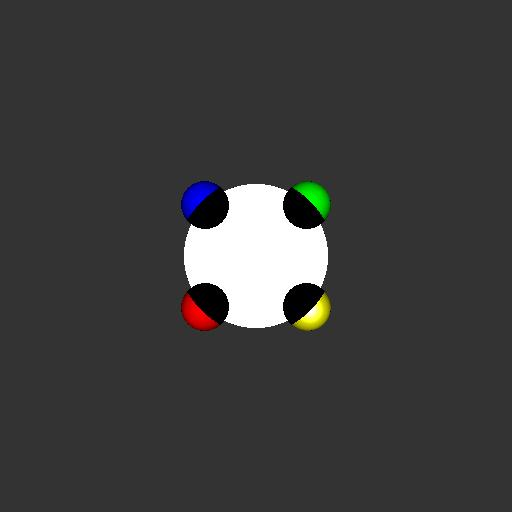
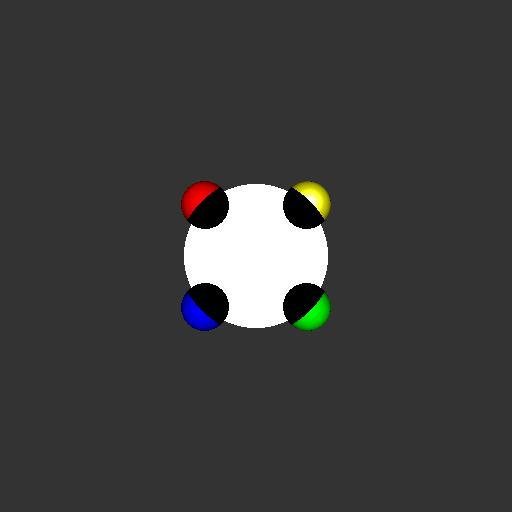
Triangles mostly tracing properly. Issues with z buffering.

diff --git a/src/main/java/edu/byu/cs455/scene/material/Diffuse.java b/src/main/java/edu/byu/cs455/scene/material/Diffuse.java
@@ -39,62 +39,22 @@ public class Diffuse extends Material
         Vector diffuseReflectanceColor = getColorVector(getMaterialColor()); //cr
         Vector ambientColor = getColorVector(scene.getAmbientLightColor()); //ca
         Vector specularHighlightColor = getColorVector(getSpecularHighlight()); //cp
-        Vector directionToLight = scene.getDirectionToLight()
-                .normalize(); //l
-        Vector reflectionVector = getReflectionVector(normal, directionToLight)
-                .normalize(); //r
+        Vector directionToLight = scene.getDirectionToLight().normalize(); //l
+        double angleBetweenLightAndNormal = Math.abs(directionToLight.dotProduct(normal));
+        Vector reflectionVector = normal.multiply(2).multiply(angleBetweenLightAndNormal).subtract(directionToLight).normalize(); //r
 
         double visibilityTerm = isInShadow ? 0 : 1;
-        Vector ambientTerm = getAmbientTerm(diffuseReflectanceColor,
-                ambientColor);
-        Vector diffuseTerm = getDiffuseTerm(diffuseReflectanceColor,
-                lightSourceColor,
-                getLambertianComponent(normal,
-                        directionToLight
-                )
-        )
-                .multiply(visibilityTerm);
-        Vector phongTerm = getPhongTerm(lightSourceColor,
-                specularHighlightColor,
-                getPhongComponent(scene.getLookFrom(),
-                        reflectionVector,
-                        getPhongConstant()
-                )
-        )
-                .multiply(visibilityTerm);
-        return addColorTermsTogether(ambientTerm, diffuseTerm, phongTerm);
-    }
+        Vector ambientTerm = diffuseReflectanceColor.multiply(ambientColor);
 
-    private Color addColorTermsTogether(Vector ambientTerm, Vector diffuseTerm, Vector phongTerm)
-    {
+        double lambertianComponent = Math.max(0, angleBetweenLightAndNormal);
+        Vector diffuseTerm = diffuseReflectanceColor.multiply(lightSourceColor).multiply(lambertianComponent).multiply(visibilityTerm);
+
+        double angleBetweenEyeAndReflection = scene.getLookFrom().dotProduct(reflectionVector);
+        angleBetweenEyeAndReflection = Math.max(0, angleBetweenEyeAndReflection);
+        double phongComponent = Math.pow(angleBetweenEyeAndReflection, getPhongConstant());
+        Vector phongTerm = lightSourceColor.multiply(specularHighlightColor).multiply(phongComponent).multiply(visibilityTerm);
+
         return getVectorColor(ambientTerm.add(diffuseTerm).add(phongTerm));
     }
 
-    private Vector getDiffuseTerm(Vector diffuseReflectanceColor, Vector lightColor, double lambertianComponent)
-    {
-        return multiplyColorsWithComponentTerm(diffuseReflectanceColor, lightColor, lambertianComponent);
-    }
-
-    private Vector getPhongTerm(Vector lightColor, Vector specularColor, double phongComponent)
-    {
-        return multiplyColorsWithComponentTerm(lightColor, specularColor, phongComponent);
-    }
-
-    private Vector multiplyColorsWithComponentTerm(Vector first, Vector second, double component)
-    {
-        return first.multiply(second).multiply(component);
-    }
-
-    private double getPhongComponent(Vector eye, Vector reflection, double phongConstant)
-    {
-        double angleBetweenEyeAndReflection = eye.dotProduct(reflection);
-        angleBetweenEyeAndReflection = Math.max(0, angleBetweenEyeAndReflection);
-        return Math.pow(angleBetweenEyeAndReflection, phongConstant);
-    }
-
-    private double getLambertianComponent(Vector normal, Vector lightDirection)
-    {
-        double angleBetweenLightAndNormal = lightDirection.dotProduct(normal);
-        return Math.max(0, angleBetweenLightAndNormal);
-    }
 }

diff --git a/src/main/java/edu/byu/cs455/Main.java b/src/main/java/edu/byu/cs455/Main.java
@@ -32,8 +32,8 @@ public class Main
         spheres.add(new Sphere(new Vector(0.35, 0.0, -0.1), 0.05, new Diffuse(new Color(1.0f, 1.0f, 1.0f), new Color(1.0f, 1.0f, 1.0f), 4)));
         spheres.add(new Sphere(new Vector(0.2, 0.0, -0.1), 0.075, new Diffuse(new Color(1.0f, 0.0f, 0.0f), new Color(1.0f, 0.5f, 0.5f), 32)));
         spheres.add(new Sphere(new Vector(-0.6, 0.0, 0.0), 0.3, new Diffuse(new Color(0.0f, 1.0f, 0.0f), new Color(0.5f, 1.0f, 0.5f), 32)));
-        triangles.add(new Triangle(new Vector(0.3, -0.3, -0.4), new Vector(0.0, 0.3, -0.1), new Vector(-0.3, -0.3, 0.2), new Diffuse(new Color(1.0f, 1.0f, 1.0f), new Color(0.0f, 0.0f, 1.0f), 32)));
-        triangles.add(new Triangle(new Vector(-0.2, 0.1, 0.1), new Vector(-0.2, -0.5, 0.2), new Vector(-0.2, 0.1, -0.3), new Diffuse(new Color(1.0f, 1.0f, 0.0f), new Color(1.0f, 1.0f, 0.0f), 4)));
+        triangles.add(new Triangle(new Vector(0.3, -0.3, -0.4), new Vector(0.0, 0.3, -0.1), new Vector(-0.3, -0.3, 0.2), new Diffuse(new Color(0.0f, 0.0f, 1.0f), new Color(1.0f, 1.0f, 1.0f), 32)));
+        triangles.add(new Triangle(new Vector(-0.2, 0.1, 0.1), new Vector(-0.2, -0.5, 0.2), new Vector(-0.2, 0.1, -0.3), new Diffuse(new Color(1.0f, 1.0f, 0.0f), new Color(1.0f, 1.0f, 1.0f), 4)));
         cameraSettings = new CameraSettings(new Vector(0.0, 0.0, 0.0), new Vector(0.0, 0.0, 1.0), new Vector(0.0, 1.0, 0.0), 28);
         light = new Light(new Vector(1.0, 0.0, 0.0), new Color(1.0f, 1.0f, 1.0f), new Color(0.1f, 0.1f, 0.1f), new Color(0.2f, 0.2f, 0.2f));
         scene = new Scene(spheres, triangles, cameraSettings, light);
@@ -48,7 +48,7 @@ public class Main
         light = new Light(new Vector(0.0, 1.0, 0.0), new Color(1.0f, 1.0f, 1.0f), new Color(0.0f, 0.0f, 0.0f), new Color(0.2f, 0.2f, 0.2f));
         scene = new Scene(spheres, triangles, cameraSettings, light);
         scene.rayTraceToFile(args[1]);
-
+//
         spheres = new ArrayList<>();
         triangles = new ArrayList<>();
         spheres.add(new Sphere(new Vector(0.0, 0.0, 0.0), 0.2322, new Refractive(new Color(1.0f, 1.0f, 1.0f), 1.333)));

diff --git a/src/main/java/edu/byu/cs455/scene/material/Material.java b/src/main/java/edu/byu/cs455/scene/material/Material.java
@@ -61,21 +61,11 @@ public abstract class Material
         }
     }
 
-    protected Vector getReflectionVector(Vector normal, Vector directionToLight)
-    {
-        return normal.multiply(2).multiply(directionToLight.dotProduct(normal)).subtract(directionToLight);
-    }
-
-    protected Vector getAmbientTerm(Vector diffuseReflectanceColor, Vector ambientColor)
-    {
-        return diffuseReflectanceColor.multiply(ambientColor);
-    }
-
     protected Color getColorInShadow(Scene scene)
     {
         Vector diffuseReflectanceColor = getColorVector(getMaterialColor());
         Vector ambientColor = getColorVector(scene.getAmbientLightColor());
-        Vector ambientTerm = getAmbientTerm(diffuseReflectanceColor, ambientColor);
+        Vector ambientTerm = diffuseReflectanceColor.multiply(ambientColor);
         return getVectorColor(ambientTerm);
     }
 }

diff --git a/src/main/java/edu/byu/cs455/scene/material/Reflective.java b/src/main/java/edu/byu/cs455/scene/material/Reflective.java
@@ -25,7 +25,8 @@ public class Reflective extends Material
         }
         else
         {
-            Vector reflectionVector = getReflectionVector(normal, scene.getDirectionToLight().normalize())
+            Vector directionToLight = scene.getDirectionToLight().normalize();
+            Vector reflectionVector = normal.multiply(2).multiply(directionToLight.dotProduct(normal)).subtract(directionToLight)
                     .normalize();
             Ray reflectionRay = Ray.translateRayByEpsilon(new Ray(intersectionPoint, reflectionVector));
             return scene.getRayColor(reflectionRay);
